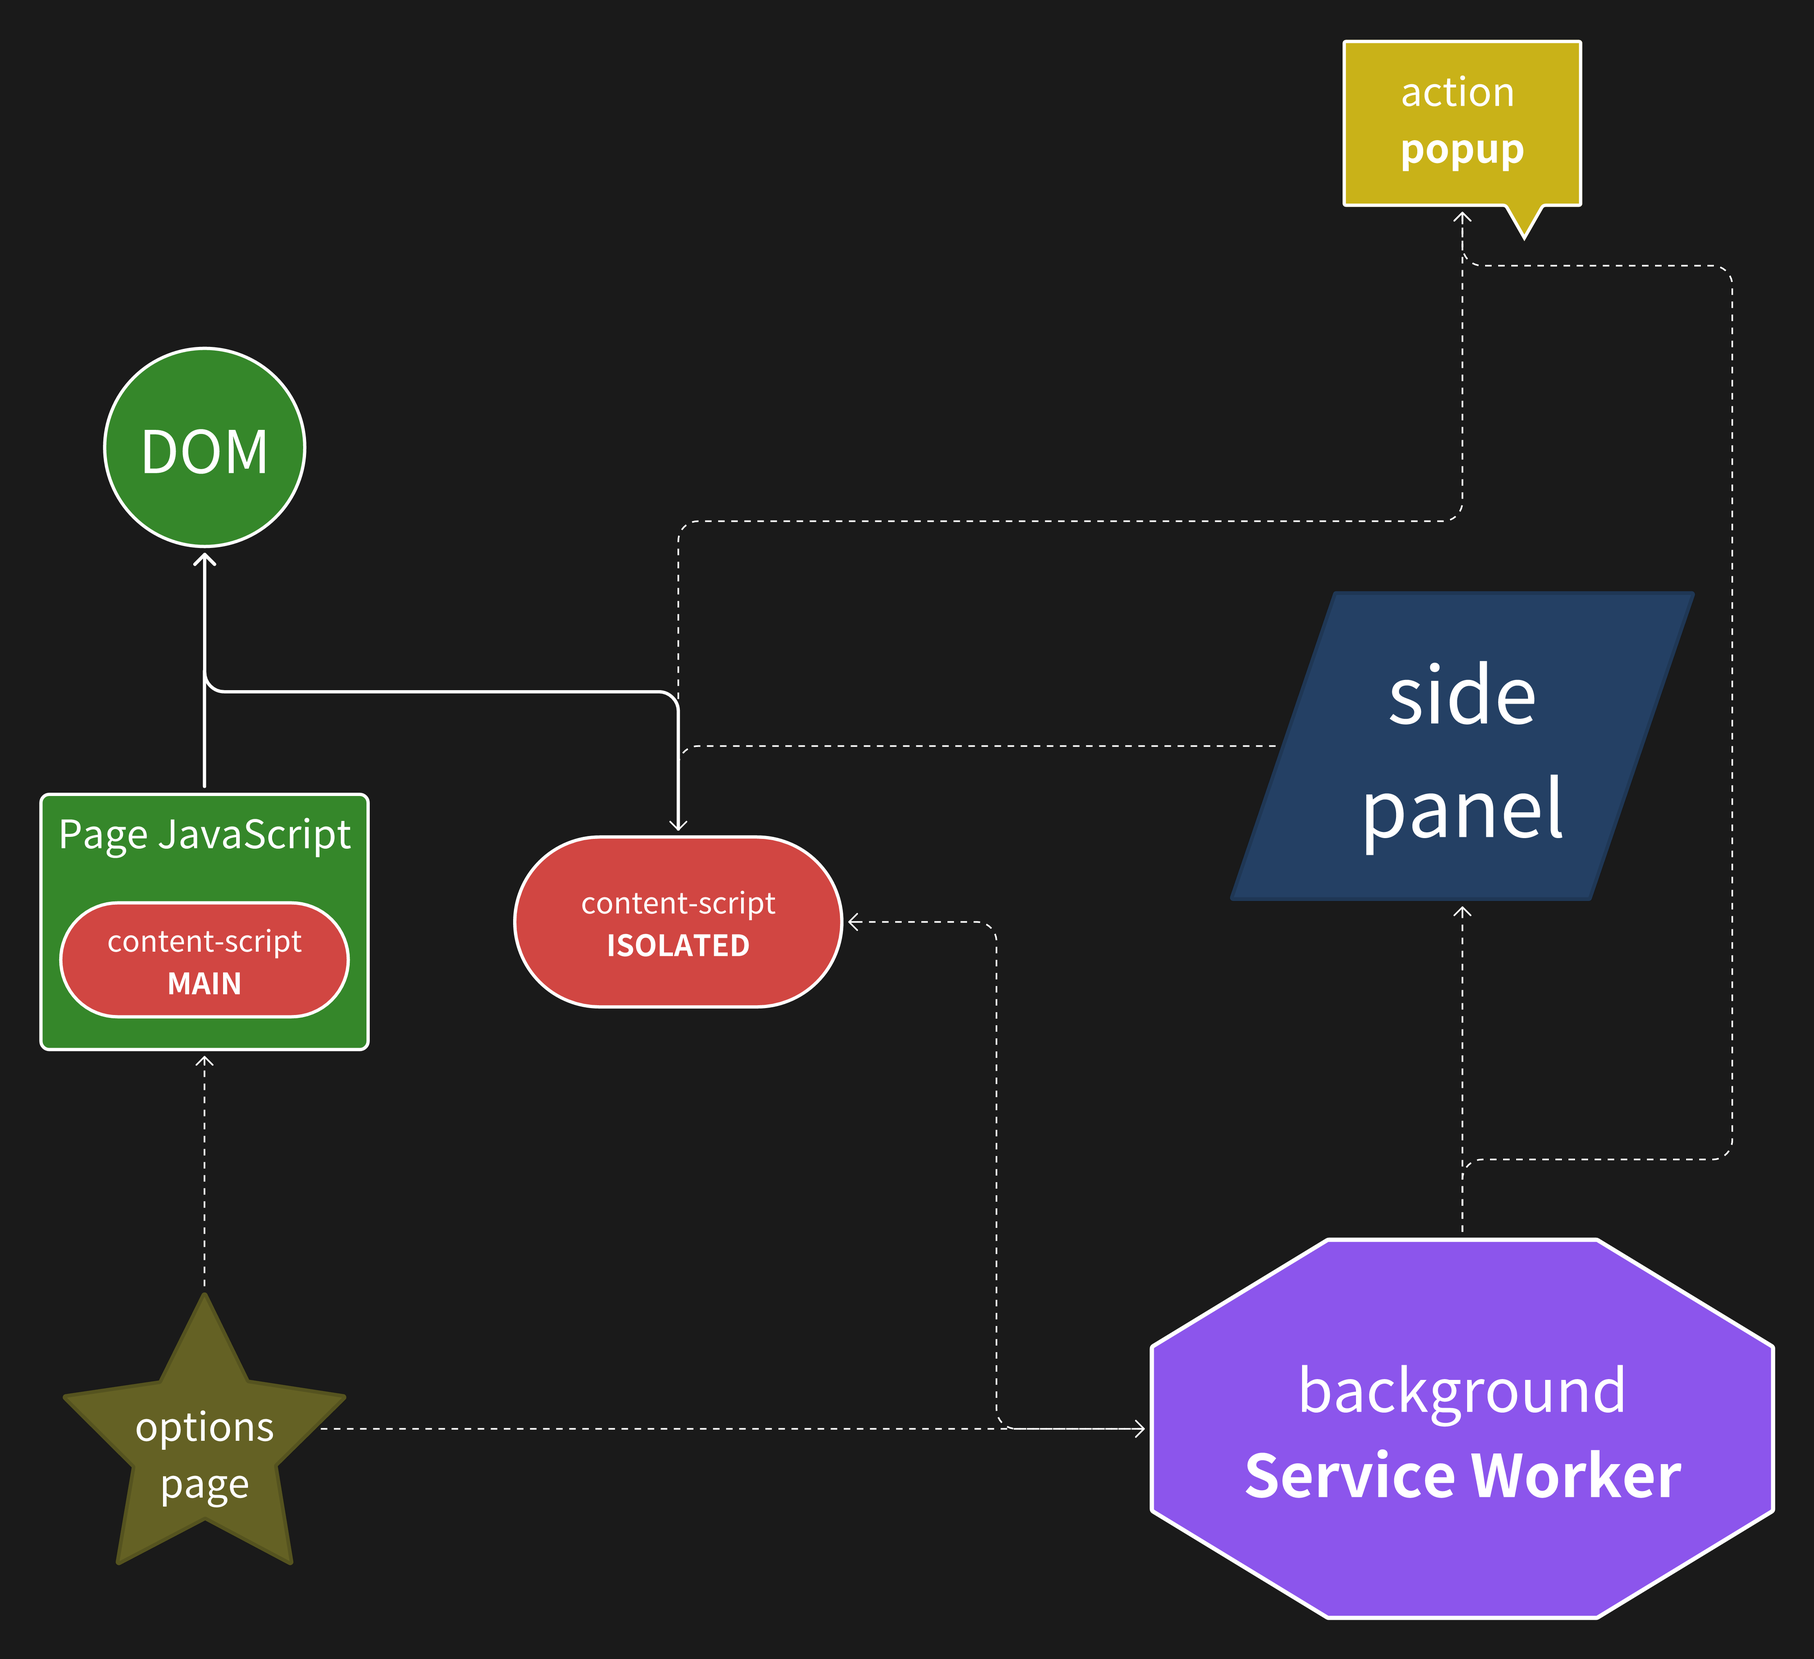
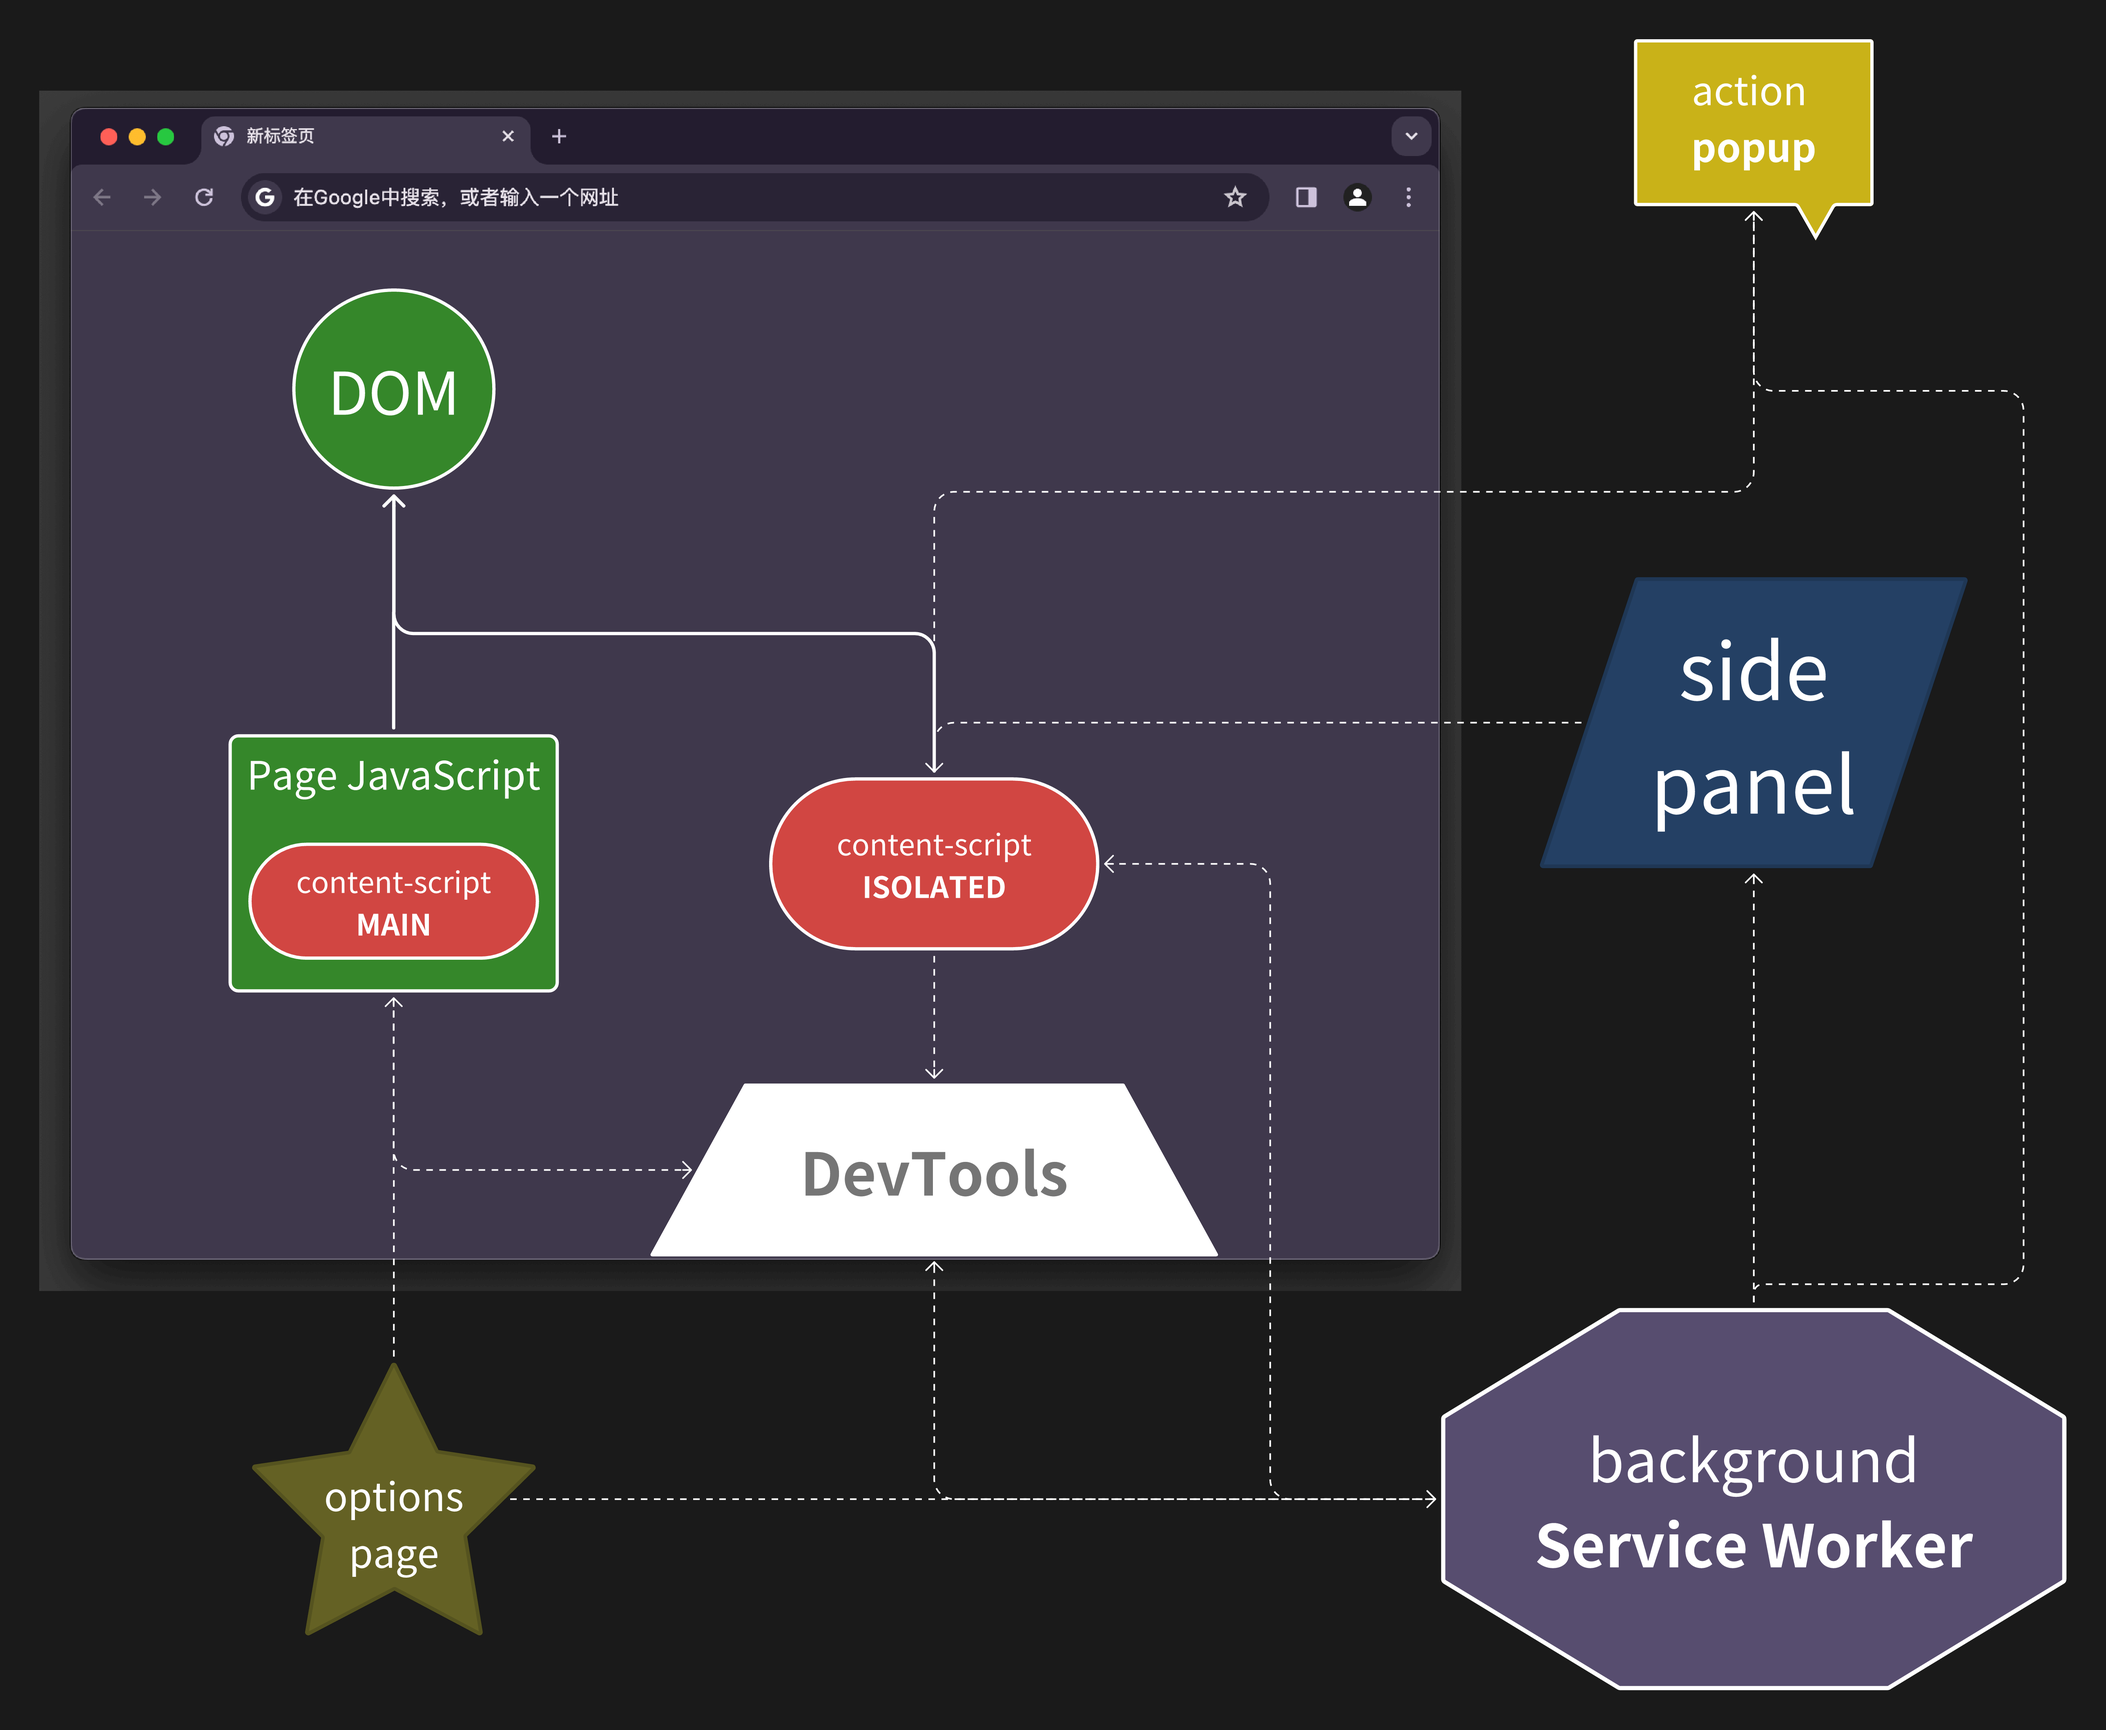
crx-demo 结束，开始 demo-crx

diff --git a/packages/crx-demo/background/service-worker.js b/packages/crx-demo/background/service-worker.js
@@ -1,5 +1,5 @@
 // import './sub.js'
-console.log("background service-worker", 444)
+console.log("background service-worker")
 
 chrome.declarativeNetRequest.onRuleMatchedDebug.addListener((info) => {
   console.log("onRuleMatchedDebug", info.request.type, info.request.url, info)
@@ -7,10 +7,27 @@ chrome.declarativeNetRequest.onRuleMatchedDebug.addListener((info) => {
 
 chrome.webRequest.onResponseStarted.addListener(
   (details) => {
-    // if (details.url === "https://pss.bdstatic.com/r/www/cache/static/protocol/https/soutu/css/soutu_new2_e1a824c.css") {
-      console.log("onCompletedddddddd", details.url, details)
-    // }
+    // console.log("onCompletedddddddd", details.url, details)
   },
   { urls: ["<all_urls>"] },
   ["responseHeaders", "extraHeaders"]
 )
+
+chrome.runtime.onMessage.addListener((message, sender, sendResponse) => {
+  console.log(
+    "onMessageeeee from background service worker",
+    message,
+    sender,
+    sendResponse
+  )
+})
+
+chrome.runtime.onConnect.addListener((port) => {
+  console.log('background onConnecttttttt', port)
+  if (port.name === 'content_scripts') {
+    port.onMessage.addListener((message, port) => {
+      console.log('in background port.onMessageeee: ', message, port)
+      port.postMessage('postMessage from background')
+    })
+  }
+})

diff --git a/packages/crx-demo/content-scripts/document_idle.js b/packages/crx-demo/content-scripts/document_idle.js
@@ -1,4 +1,23 @@
 {
+  // window.crxDemoContentScriptIdle = {}
   const  now = new Date()
   console.log(`${now.getHours()}:${now.getMinutes()}:${now.getSeconds()} ${now.getMilliseconds()} %ccontent-script`, 'font-weight: bold;color: #090;', 'document_idle', window.customVariable)
 }
+chrome.runtime.onMessage.addListener((message, sender, sendResponse) => {
+  console.log('runtime.onMessageeeee from content-scripts', message, sender, sendResponse)
+  // const textarea = document.querySelector('textarea')
+  // textarea.value += JSON.stringify(message) + '\n'
+})
+
+chrome.runtime.sendMessage('content-scripts loaded')
+
+const port = chrome.runtime.connect({
+  name: 'content_scripts',
+  includeTlsChannelId: false,
+})
+
+port.postMessage('postMessage from content_scripts')
+
+port.onMessage.addListener((message, port) => {
+  console.log('in content_scripts port.onMessageeee: ', message, port)
+})

diff --git a/packages/crx-demo/popup/index.js b/packages/crx-demo/popup/index.js
@@ -1,0 +1,20 @@
+window.CrxDemoActionPopup = true
+console.log('action popupppppppp', chrome.runtime.onMessage, window)
+chrome.runtime.onMessage.addListener((message, sender, sendResponse) => {
+  console.log('runtime.onMessageeeee from action popup', message, sender, sendResponse)
+
+  const textarea = document.querySelector('textarea')
+  textarea.value += JSON.stringify(message) + '\n'
+})
+
+chrome.runtime.sendMessage('action_popup loaded')
+
+chrome.runtime.onConnect.addListener((port) => {
+  console.log('action_popup onConnecttttttt', port)
+  if (port.name === 'content_scripts') {
+    port.onMessage.addListener((message, port) => {
+      console.log('in action_popup port.onMessageeee: ', message, port)
+      port.postMessage('postMessage from action_popup')
+    })
+  }
+})

diff --git a/packages/crx-demo/side_panel/index.js b/packages/crx-demo/side_panel/index.js
@@ -1,0 +1,19 @@
+console.log('side_panellllll', chrome.runtime.onMessage)
+chrome.runtime.onMessage.addListener((message, sender, sendResponse) => {
+  console.log('runtime.onMessageeeee from side_panel', message, sender, sendResponse)
+
+  const textarea = document.querySelector('textarea')
+  textarea.value += JSON.stringify(message) + '\n'
+})
+
+chrome.runtime.sendMessage('side_panel loaded')
+
+chrome.runtime.onConnect.addListener((port) => {
+  console.log('side_panels onConnecttttttt', port)
+  if (port.name === 'content_scripts') {
+    port.onMessage.addListener((message, port) => {
+      console.log('in side_panels port.onMessageeee: ', message, port)
+      port.postMessage('postMessage from side_panels')
+    })
+  }
+})

diff --git a/packages/mock-input-crx/src/content-script.ts b/packages/mock-input-crx/src/content-script.ts
@@ -127,7 +127,7 @@ window.addEventListener('contextmenu', (ev: MouseEvent) => {
   contextmenuTarget = ev.target
 })
 chrome.runtime.onMessage.addListener((request, sender, sendResponse) => {
-  console.log('onMessageeeeee', request, sender, sendResponse, contextmenuTarget)
+  console.log('runtime.onMessageeeeee', request, sender, sendResponse, contextmenuTarget)
 
   const inputs: HTMLInputElement[] = Array.from(document.querySelectorAll('input, textarea'))
   inputs.forEach((v: HTMLInputElement) => {

diff --git a/packages/crx-demo/options_page/index.js b/packages/crx-demo/options_page/index.js
@@ -1,0 +1,10 @@
+window.CrxDemoOptionsPage = true
+console.log('options_pageeee', chrome.runtime.onMessage, window)
+
+chrome.runtime.onMessage.addListener((message, sender, sendResponse) => {
+  console.log('runtime.onMessageeeee from options_page', message, sender, sendResponse)
+  const textarea = document.querySelector('textarea')
+  textarea.value += JSON.stringify(message) + '\n'
+})
+
+chrome.runtime.sendMessage('options_page loaded')

diff --git a/packages/crx-demo/devtools/panel.js b/packages/crx-demo/devtools/panel.js
@@ -1,0 +1,8 @@
+console.log('devtools panel', chrome.runtime.onMessage)
+chrome.runtime.onMessage.addListener((message, sender, sendResponse) => {
+  console.log('runtime.onMessageeeee from devtools', message, sender, sendResponse)
+  const textarea = document.querySelector('textarea')
+  textarea.value += JSON.stringify(message) + '\n'
+})
+
+chrome.runtime.sendMessage('devtools loaded')

diff --git a/packages/crx-demo/popup/index.html b/packages/crx-demo/popup/index.html
@@ -1,9 +1,11 @@
 <!DOCTYPE html>
 <html>
   <head>
+    <script src="index.js"></script>
   </head>
   <body style="min-width: 300px;min-height: 400px;">
-    <img src="../icon128.png"/>
-    <h1>crx-demo1</h1>
+    <!-- <img src="../icon128.png"/> -->
+    <h1>action popup</h1>
+    <textarea rows="40" cols="30"></textarea>
   </body>
 </html>

diff --git a/packages/crx-demo/options_page/index.html b/packages/crx-demo/options_page/index.html
@@ -2,9 +2,11 @@
 <html>
   <head>
     <meta charset="utf8" />
+    <script src="index.js"></script>
   </head>
   <body style="text-align: center;">
-    <img src="../icon128.png" />
+    <!-- <img src="../icon128.png" /> -->
     <h1>options_page</h1>
+    <textarea rows="40" cols="60"></textarea>
   </body>
 </html>

diff --git a/packages/crx-demo/side_panel/index.html b/packages/crx-demo/side_panel/index.html
@@ -2,9 +2,11 @@
 <html>
   <head>
     <meta charset="utf8" />
+    <script src="index.js"></script>
   </head>
   <body style="text-align: center;">
-    <img src="../icon128.png" />
+    <!-- <img src="../icon128.png" /> -->
     <h1>side_panel</h1>
+    <textarea rows="40" cols="30"></textarea>
   </body>
 </html>

diff --git a/packages/crx-demo/devtools/panel.html b/packages/crx-demo/devtools/panel.html
@@ -2,9 +2,11 @@
 <html>
   <head>
     <meta charset="utf8" />
+    <script src="panel.js"></script>
   </head>
   <body>
-    <img src="../icon128.png" />
+    <!-- <img src="../icon128.png" /> -->
     <h1>devtools_page Panel</h1>
+    <textarea cols="40" rows="40"></textarea>
   </body>
 </html>

diff --git a/packages/crx-demo/devtools/index.html b/packages/crx-demo/devtools/index.html
@@ -1,1 +1,10 @@
-<script src="./index.js"></script>
+<!DOCTYPE html>
+<html>
+  <head>
+    <meta charset="utf8" />
+    <script src="index.js"></script>
+  </head>
+  <body style="text-align: center;">
+    <h1>devtools page</h1>
+  </body>
+</html>
